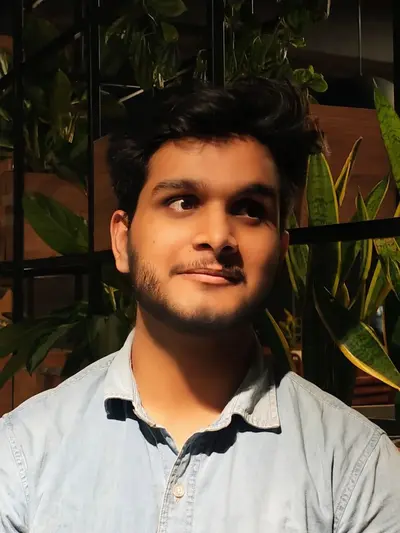
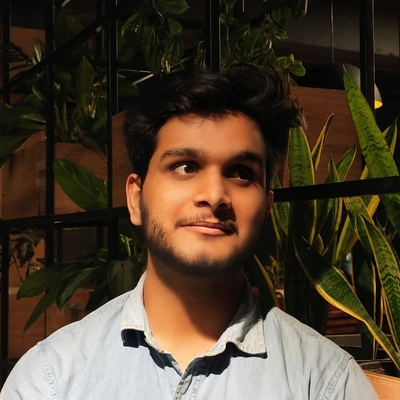
optimize static assets

diff --git a/src/screens/CommunityVoices.tsx b/src/screens/CommunityVoices.tsx
@@ -20,7 +20,7 @@ interface InstagramVideo {
   url: string;
 }
 
-const InstagramSection: React.FC = () => {
+const CommunityVoices: React.FC = () => {
   const videos: InstagramVideo[] = [
     {
       id: "video1",
@@ -60,48 +60,48 @@ const InstagramSection: React.FC = () => {
     }
   ];
 
-  // const [tolerance, setTolerance] = useState(2);
-  // const [selectedIndex, setIndex] = useState(0);
+  const [tolerance, setTolerance] = useState(2);
+  const [selectedIndex, setIndex] = useState(0);
 
-  // const handleShouldShowInstagramItem = () => {
-  //   const width = window.innerWidth;
-  //   if (width >= 1280) {
-  //     setTolerance(2);
-  //   } else if (width >= 1024) {
-  //     setTolerance(1);
-  //   } else if (width >= 640) {
-  //     setTolerance(0);
-  //   } else {
-  //     setTolerance(0);
-  //   }
-  // };
+  const handleShouldShowInstagramItem = () => {
+    const width = window.innerWidth;
+    if (width >= 1280) {
+      setTolerance(2);
+    } else if (width >= 1024) {
+      setTolerance(1);
+    } else if (width >= 640) {
+      setTolerance(0);
+    } else {
+      setTolerance(0);
+    }
+  };
 
-  // const handleIndexDecrement = () => setIndex(Math.max(selectedIndex - 1, 0));
-  // const handleIndexIncrement = () =>
-  //   setIndex(Math.min(selectedIndex + 1, videos.length - tolerance - 1));
+  const handleIndexDecrement = () => setIndex(Math.max(selectedIndex - 1, 0));
+  const handleIndexIncrement = () =>
+    setIndex(Math.min(selectedIndex + 1, videos.length - tolerance - 1));
 
-  // useEffect(() => {
-  //   handleShouldShowInstagramItem();
-  //   window.addEventListener("resize", handleShouldShowInstagramItem);
-  //   return () => {
-  //     window.removeEventListener("resize", handleShouldShowInstagramItem);
-  //   };
-  // }, []);
+  useEffect(() => {
+    handleShouldShowInstagramItem();
+    window.addEventListener("resize", handleShouldShowInstagramItem);
+    return () => {
+      window.removeEventListener("resize", handleShouldShowInstagramItem);
+    };
+  }, []);
 
   return (
     <section className="instagram py-16">
       <h2>Instagram</h2>
       <div className="flex items-center sm:gap-4">
-        {/* <div
+        <div
           onClick={handleIndexDecrement}
           className="w-12 border border-gray-500/20 aspect-square rounded-full bg-[url('/logos/arrow-left.svg')] transition-all duration-300 bg-white bg-no-repeat bg-center hover:bg-gray-100 cursor-pointer"
-        /> */}
+        />
         <div className="flex overflow-x-scroll w-full transition-all ease-in-out gap-4">
           {videos.map((video, curIndex) => (
             <div
-              className={`${/*
+              className={`${
                 curIndex >= selectedIndex && curIndex <= selectedIndex + tolerance ? "" : "hidden"
-                */''} instagram-item relative flex flex-col flex-1 items-center rounded-md overflow-clip`}
+                } instagram-item relative flex flex-col flex-1 items-center rounded-md overflow-clip`}
               key={video.id}
             >
               <a href={video.url} target="_blank" rel="noopener noreferrer" className="w-full">
@@ -125,13 +125,13 @@ const InstagramSection: React.FC = () => {
             </div>
           ))}
         </div>
-        {/* <div
+        <div
           onClick={handleIndexIncrement}
           className="w-12 border border-gray-500/20 aspect-square rounded-full bg-[url('/logos/arrow-left.svg')] transition-all duration-300 bg-white bg-no-repeat bg-center hover:bg-gray-100/40 rotate-180 cursor-pointer"
-        /> */}
+        />
       </div>
     </section>
   );
 };
 
-export default InstagramSection;
+export default CommunityVoices;

diff --git a/src/App.css b/src/App.css
@@ -163,13 +163,13 @@
     .aws1 {
         @apply absolute w-21 h-20 md:w-44 md:h-40 top-0 right-0 -z-10;
         transform: rotate3d(0, 0, 1, 180deg);
-        background: no-repeat center / contain url("/logos/aws_hexagon.png");
+        background: no-repeat center / contain url("/logos/aws_hexagon.webp");
     }
 
     .aws2 {
         @apply absolute w-21 h-20 md:w-44 md:h-40 top-0 left-0 -z-10;
         transform: rotateX(180deg);
-        background: no-repeat center / contain url("/logos/aws_hexagon.png");
+        background: no-repeat center / contain url("/logos/aws_hexagon.webp");
     }
     .cloud1, .cloud2, .cloud3, .cloud4{
         @apply absolute w-96 h-32;
@@ -280,6 +280,6 @@
 
     .person-img::after {
         @apply content-[""] absolute -left-3 -bottom-3 -top-3 -right-3;
-        background: no-repeat center / cover url("/logos/speaker_bg.png");
+        background: no-repeat center / cover url("/logos/speaker_bg.webp");
     }
 }

diff --git a/src/components/header/Header.tsx b/src/components/header/Header.tsx
@@ -93,7 +93,7 @@ const Header = () => {
           }`}
         >
           <img
-            src="logos/logo.png"
+            src="logos/logo.webp"
             className={`p-4 ${headerScrolled ? "size-20" : "size-24"}`}
             loading="lazy"
           />
@@ -111,7 +111,7 @@ const Header = () => {
         }`}
       >
         <img
-          src="/logos/logo.png"
+          src="/logos/logo.webp"
           className={`transition-all ${headerScrolled ? "size-22 p-2" : "size-24 p-4"}`}
           loading="lazy"
         />

diff --git a/src/App.tsx b/src/App.tsx
@@ -12,6 +12,7 @@ import Team from "./screens/Team";
 import FAQ from "./screens/FAQ";
 import Footer from "./components/footer/Footer";
 import About from "./screens/About";
+import CommunityVoices from "./screens/CommunityVoices";
 
 function App() {
   return (
@@ -26,6 +27,7 @@ function App() {
                 <Hero />
                 <About />
                 <Speakers />
+                <CommunityVoices />
                 {/* <Schedule /> */}
                 <Gallery />
                 <Venue />

diff --git a/src/screens/Hero.tsx b/src/screens/Hero.tsx
@@ -5,7 +5,7 @@ const Hero = () => {
     <section className="hero home h-screen w-full flex flex-col items-center justify-between">
       <div className="h-64" />
       <img
-        src="/logos/aws.png"
+        src="/logos/aws.webp"
         className="w-full sm:w-4/5  lg:w-2/5 aws-logo"
         loading="lazy"
       />

diff --git a/src/screens/CodeOfConduct.tsx b/src/screens/CodeOfConduct.tsx
@@ -8,7 +8,7 @@ const CodeOfConduct = () => {
 
         <img
           className="absolute mx-auto w-48 md:w-96 top-14 left-1/2 -translate-x-1/2"
-          src="/logos/aws.png"
+          src="/logos/aws.webp"
           alt=""
           loading="lazy"
         />
